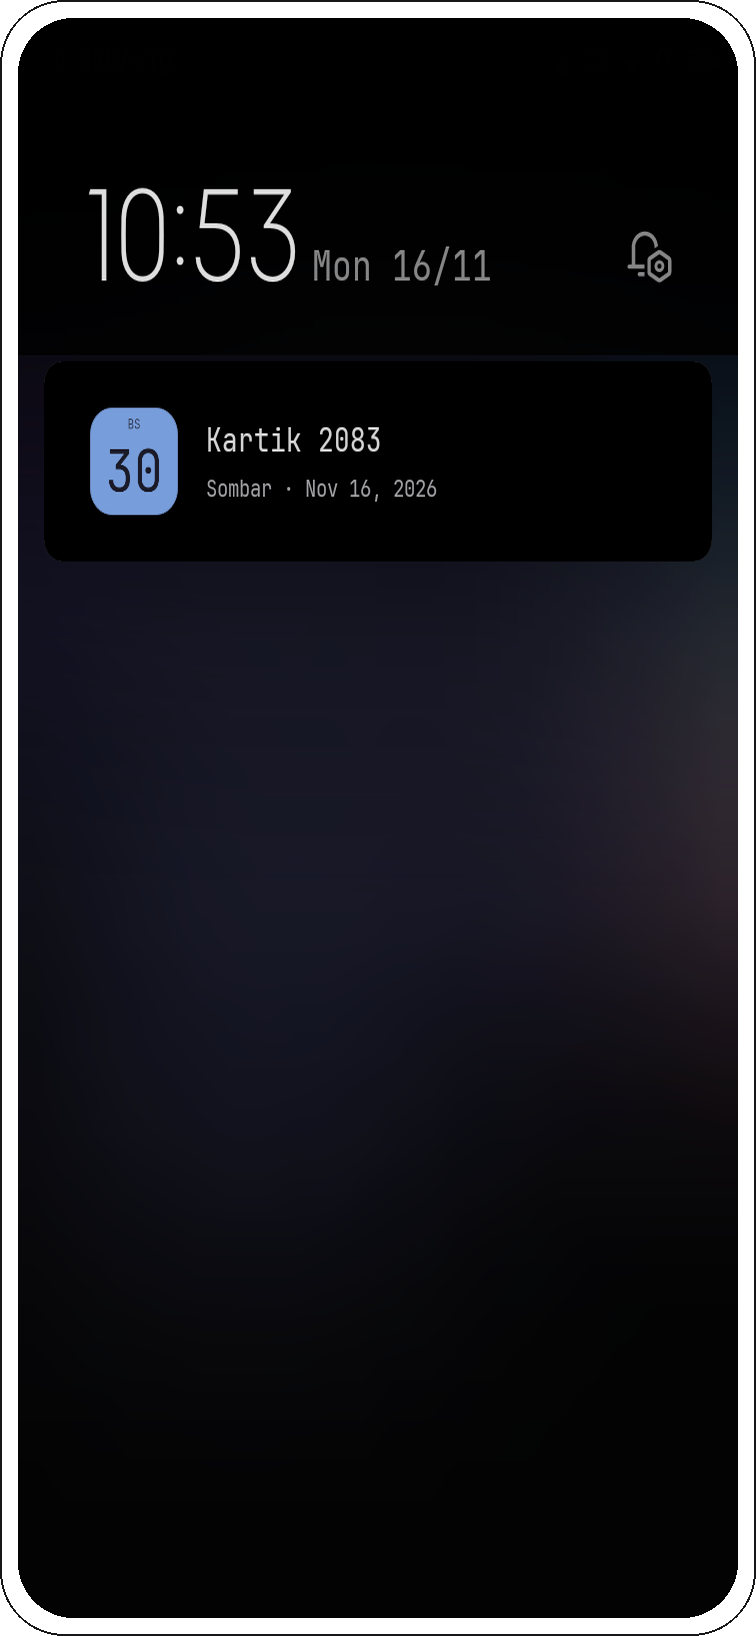
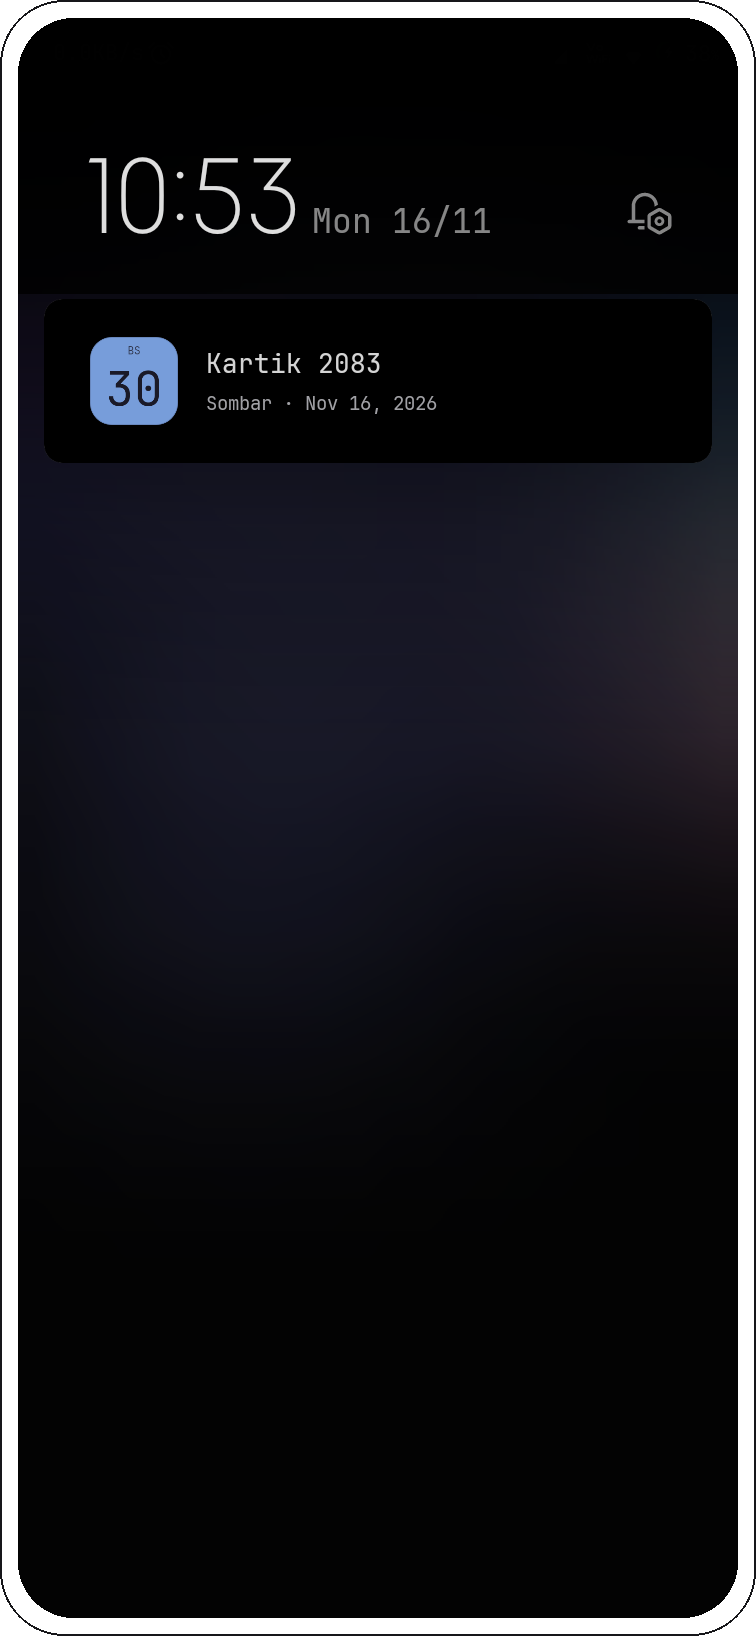
docs: fix stretched notification preview and restore events

diff --git a/README.md b/README.md
@@ -15,9 +15,9 @@ No ads, no tracking and no network permission.
 
 <div align="center">
 
-<a href="docs/screens-1.png"><img src="docs/screens-1.png" width="396" alt="Month view, year view and the day sheet" /></a> <a href="docs/screens-2.png"><img src="docs/screens-2.png" width="262" alt="Notification shade and widget home" /></a> <a href="docs/widgets.png"><img src="docs/widgets.png" width="130" alt="npltz widgets on a home screen" /></a>
+<a href="docs/screens-1.png"><img src="docs/screens-1.png" width="396" alt="Month view, year view and the day sheet" /></a> <a href="docs/screens-2.png"><img src="docs/screens-2.png" width="262" alt="Notification shade and events" /></a> <a href="docs/widgets.png"><img src="docs/widgets.png" width="130" alt="npltz widgets on a home screen" /></a>
 
-<sub>Month and year views, day details, the date notification and widgets.<br />Tap any screen to see it full size.</sub>
+<sub>Month and year views, day details, the date notification, events and widgets.<br />Tap any screen to see it full size.</sub>
 
 </div>
 
